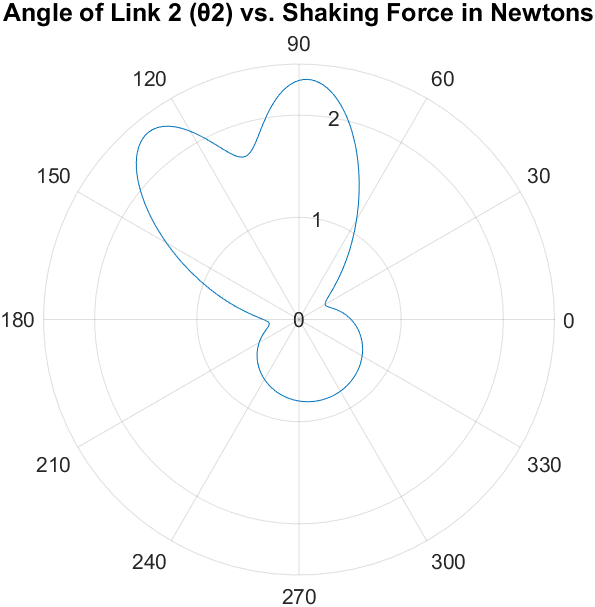
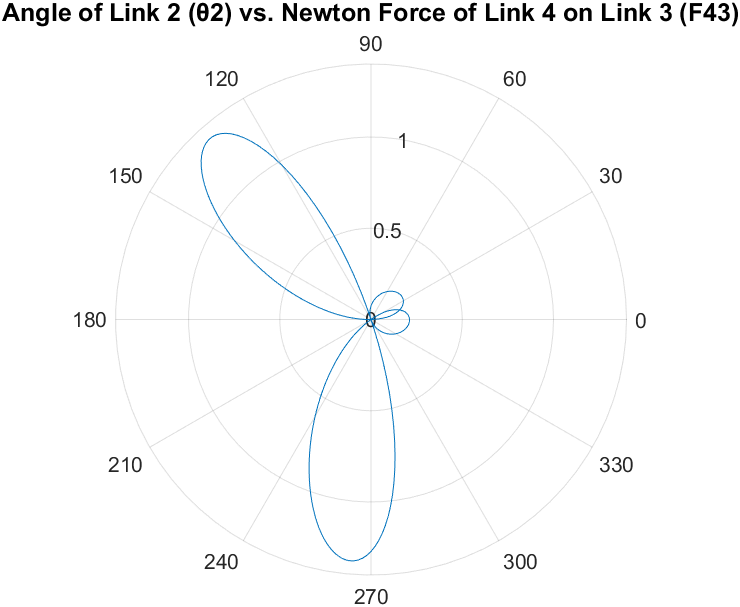
add plot

diff --git a/main.m b/main.m
@@ -250,6 +250,16 @@ exportgraphics(ax,ttl);
 image_num = image_num +1;
 
 
+% θ2 vs F43
+polarplot(deg2rad(theta_2), F43);
+title('Angle of Link 2 (θ2) vs. Newton Force of Link 4 on Link 3 (F43)', 'FontSize', 12);
+ax = gca; % Save image
+ttl = sprintf('plots/plot_%d.png', image_num);
+exportgraphics(ax,ttl);
+image_num = image_num +1;
+
+
+
 % Get shaking Force and Moment, input should be opposite force
 [Fs, Fs_direction] = get_shaking_force(-F12x, -F12y, -F14x, -F14y);
 Ms = get_shaking_moment(-F14x, -F14y, -M12, r1, r4);
